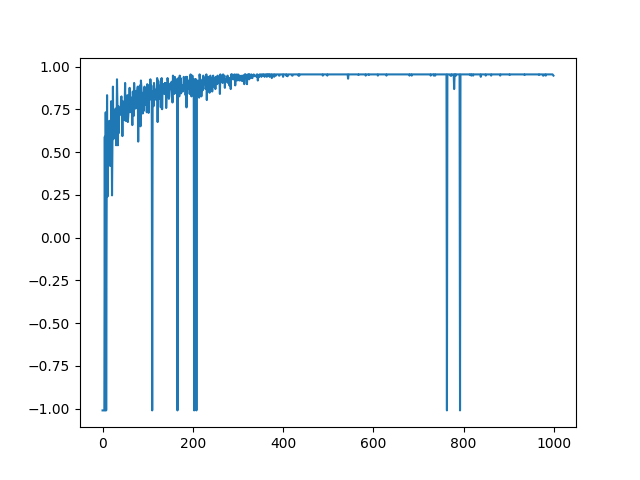
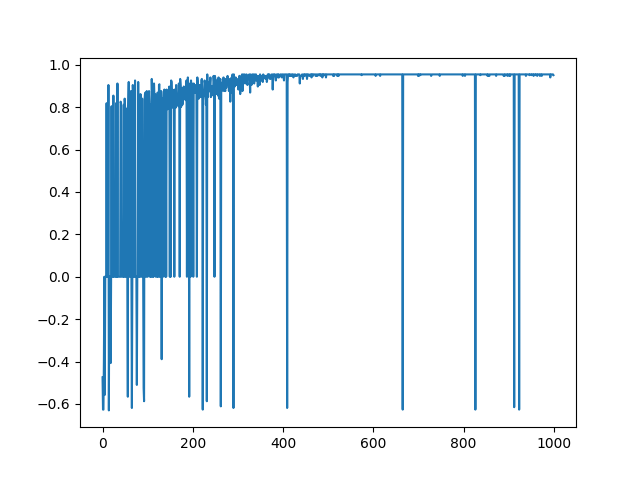
add results

diff --git a/codes/sarsa.py b/codes/sarsa.py
@@ -2,7 +2,8 @@ from envs.envs import make_env
 from utils import seed_everything
 import numpy as np
 import matplotlib.pyplot as plt
-
+import json
+COLORS = ['blue', 'orange', 'green', 'red', 'purple', 'brown', 'yellow', 'grey', 'pink', 'orange']
 class Agent():
     def __init__(self):
         self.q_values = {} # dictionary of q_values
@@ -14,6 +15,8 @@ class Agent():
     def get_q_value(self, state, action):
         return self.q_values.get(state, [0,0,0,0])[action] \
             # 0 in conjunction with normalization of reward =|opt. init.
+    def get_state_q_values(self, state):
+        return self.q_values.get(state, [0,0,0,0])
     def policy_epsilon_greedy(self, state):
         selection_prob = np.random.random()
         if selection_prob < self.epsilon:
@@ -24,76 +27,91 @@ class Agent():
                 == q_vals.max())) # break ties uniformly
             
 
-def experiment_run(env_names):
+def experiment_run(env_names, run_seeds):
     #------------ Configs ------------#
     for env_name in env_names:
-        # Global configs
-        seed = 20231124
-        
-        # Environment configs
-        normalize_reward = True
-        PENALIZE_DEATH = True
-        
-        # NN configs
-        use_nn = False
-        
-        # Algorithm configs
-        algo_name = "sarsa"
-        num_episodes = 1000
-        LEARNING_RATE = 0.01
-        GAMMA = 0.99
+        run_returns = []
+        for seed in run_seeds:
+            # Global configs
+            # seed = 20231124
+            # Environment configs
+            normalize_reward = True
+            PENALIZE_DEATH = False
+            # Algorithm configs
+            num_episodes = 5000
+            LEARNING_RATE = 0.005
+            GAMMA = 0.9
+            state_values = {}
 
-        #------------ Training ------------#
-        # Set seed for everything
-        seed_everything(seed)
-        
-        # Create the necessary components
-        env = make_env(env_name,flat_obs=False, \
-            penalize_death=PENALIZE_DEATH, normalize_reward=normalize_reward, gamma=GAMMA)
-        agent = Agent()
-        avg_returns = []
-        reward_accumulator = 0
-        episode_length = 1
-        terminal = False
-        # Train
-        for i in range(num_episodes):
-            obs, _ = env.reset(seed=seed)
-            obs = tuple(obs)
-            action = agent.policy_epsilon_greedy(obs)
-            while not terminal and episode_length < 5000: # truncate long episodes
-                next_obs, reward, terminal, _, _ = env.step(action)
-                next_obs = tuple(next_obs)
-                if terminal:
-                   reward_accumulator = reward
-
-                episode_length += 1
-                next_action = agent.policy_epsilon_greedy(next_obs)
-                q_value = agent.get_q_value(obs, action)
-                q_value += LEARNING_RATE * \
-                    (reward + (1-terminal) * GAMMA * \
-                        agent.get_q_value(next_obs, next_action) - \
-                    agent.get_q_value(obs, action))
-                # update in memory
-                agent.set_q_value(obs, action, q_value)
-                obs = next_obs
-                action = next_action
-            print(f"episode {i+1} has completed. #Steps: {episode_length}")
-            avg_returns.append(reward_accumulator)
-            episode_length = 1
+            #------------ Training ------------#
+            # Set seed for everything
+            seed_everything(seed)
+            
+            # Create the necessary components
+            env = make_env(env_name,
+                            flat_obs=False,
+                            penalize_death=PENALIZE_DEATH,
+                            normalize_reward=normalize_reward,
+                            gamma=GAMMA
+                        )
+            agent = Agent()
+            avg_returns = []
             reward_accumulator = 0
+            episode_length = 1
             terminal = False
+            truncate = False
+            # Train
+            for i in range(num_episodes):
+                obs, _ = env.reset(seed=seed)
+                obs = tuple(obs)
+                action = agent.policy_epsilon_greedy(obs)
+                truncate = False
+                while not terminal and not truncate: # truncate long episodes
+                    next_obs, reward, terminal, truncate, _ = env.step(action)
+                    next_obs = tuple(next_obs)
+                    if terminal:
+                        reward = GAMMA**(100 - episode_length + 1) - 1 if reward < 0 else reward
+                        reward_accumulator = reward
+
+                    episode_length += 1
+                    next_action = agent.policy_epsilon_greedy(next_obs)
+                    q_value = agent.get_q_value(obs, action)
+                    q_value += LEARNING_RATE * \
+                        (reward + (1-terminal) * GAMMA * \
+                            agent.get_q_value(next_obs, next_action) - \
+                        agent.get_q_value(obs, action))
+                    # update in memory
+                    agent.set_q_value(obs, action, q_value)
+                    state_values[obs] = sum(agent.get_state_q_values(obs))
+                    obs = next_obs
+                    action = next_action
+                print(f"episode {i+1} has completed. #Steps: {episode_length}")
+                avg_returns.append(reward_accumulator)
+                episode_length = 1
+                reward_accumulator = 0
+                terminal = False
+            run_returns.append(avg_returns)
+            with open(f"../results/true_values/true_values-{env_name}-{seed}.json", "w") as outfile: 
+                json_compatible = {str(key):values for key, values in state_values.items()}
+                json.dump(json_compatible, outfile)
         print(f"Completed training on {env_name}")
-        plt.figure()
-        plt.plot(avg_returns)
-        plt.savefig(f"../results/returns-{env_name}-\
-            {seed}-{'normalized' if normalize_reward else 'raw'}")    
+        plt.figure(figsize=(30,10))
+        for index, run in enumerate(run_returns):
+            plt.plot(run, color=COLORS[index])
+        plt.savefig(f"../results/returns-{env_name}\
+            -{'normalized' if normalize_reward else 'raw'}")
+
     
 
 
 if __name__ == "__main__":
     environments = [
-                    "MiniGrid-Empty-Random-5x5-v0",
+                    "MiniGrid-Empty-Random-6x6-v0",
                     "MiniGrid-DistShift1-v0", 
                     "MiniGrid-LavaGapS5-v0"
                     ]
-    experiment_run(environments)
+    base_seed = 55555
+    np.random.seed(base_seed)
+    number_of_seeds = 10
+    seeds_for_sweep = [np.random.randint(10_000_000) for _ in range(number_of_seeds)]
+    experiment_run(environments, seeds_for_sweep)

diff --git a/codes/envs/custom_minigrid_wrappers.py b/codes/envs/custom_minigrid_wrappers.py
@@ -106,7 +106,7 @@ class TabularObservation(gym.ObservationWrapper):
     def __init__(self, env: Env):
         super().__init__(env)
     
-    def observation(self, observation):
+    def observation(self, _):
         unwrapped = self.unwrapped
         return unwrapped.agent_pos
     

diff --git a/codes/envs/envs.py b/codes/envs/envs.py
@@ -24,7 +24,7 @@ def make_env(
     mx_reward: float = 1.0,
     gamma: float = 1.0,
 ):
-    base_env = gym.make(env_name)
+    base_env = gym.make(env_name, max_episode_steps=100)
     if flat_obs:
         base_env = TraditionalFlattenObservation(base_env)
     else:
